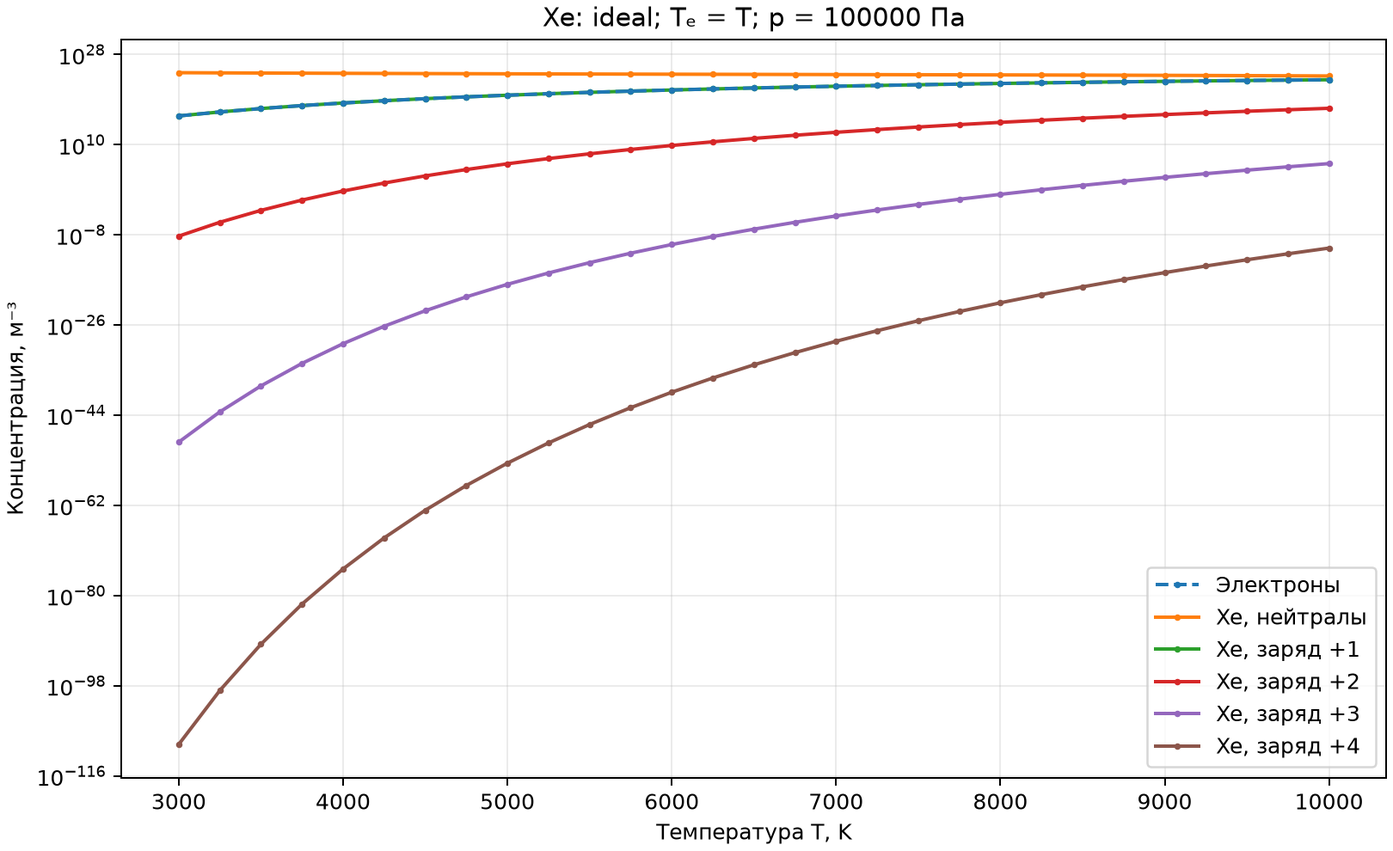
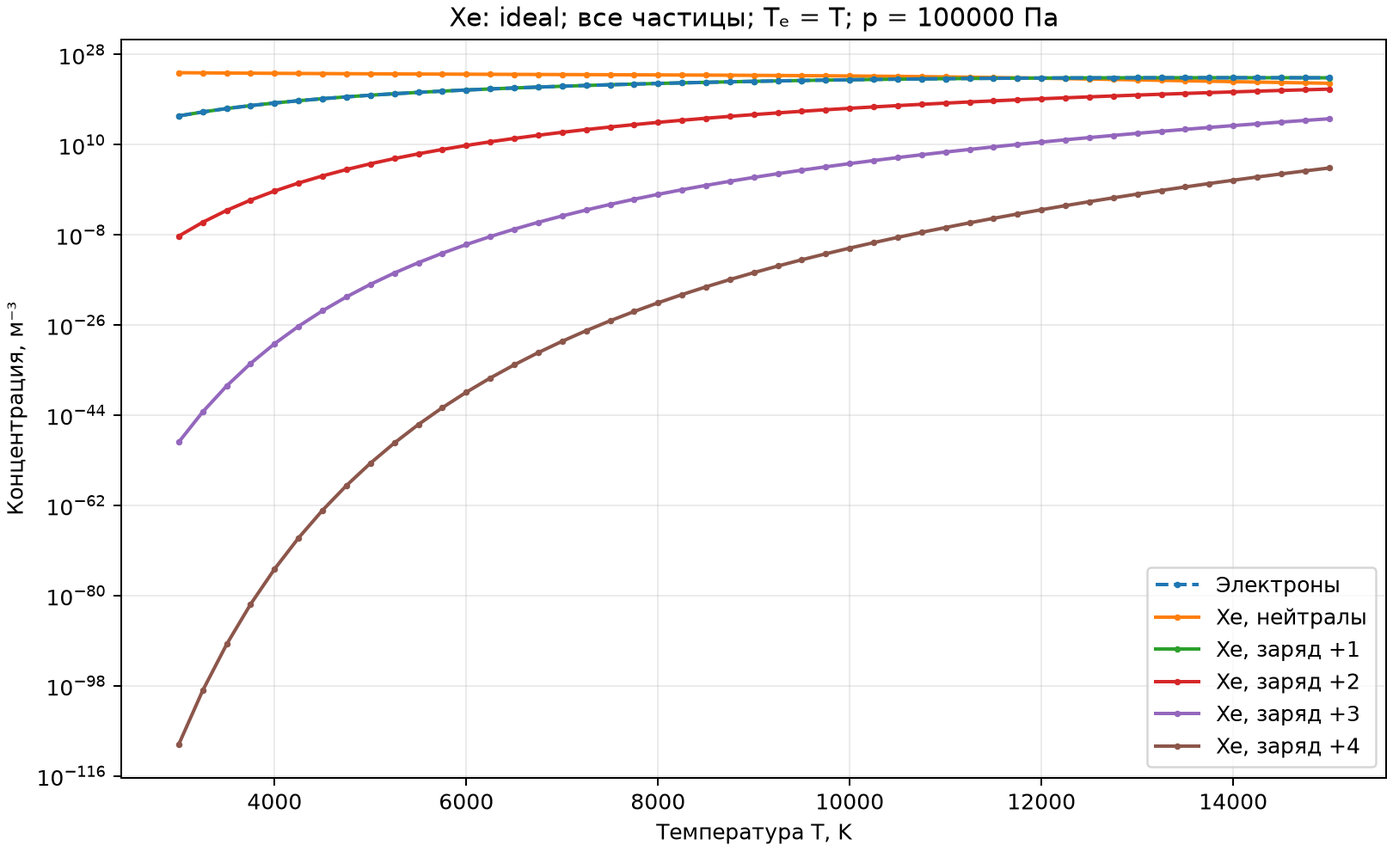
add plot levels result

diff --git a/src/plasma/output.py b/src/plasma/output.py
@@ -12,6 +12,16 @@ from .settings import RunSettings
 from .solver import Solution
 
 
+# Индексы столбцов density: электрон=0, нейтрал=1, заряд z -> z+1.
+_PLOT_GROUPS = {
+    1: ("group1_neutral_ion1_e", (1, 2, 0)),
+    2: ("group2_ion1_e_ion2", (2, 0, 3)),
+    3: ("group3_ion2_ion3", (3, 4)),
+    4: ("group4_ion3_ion4", (4, 5)),
+}
+_SPECIES_COLORS = ("tab:blue", "tab:orange", "tab:green", "tab:red", "tab:purple", "tab:brown")
+
+
 def solution_row(solution: Solution, settings: RunSettings) -> dict:
     row = {
         "element": solution.element, "model": solution.mode,
@@ -93,33 +103,41 @@ def plot_results(solutions: list[Solution], settings: RunSettings) -> list[Path]
             for i, solution in enumerate(selected):
                 if solution.converged and solution.state is not None:
                     density[i] = solution.state.density_star * settings.reference_density_m3
-            fig, ax = plt.subplots(figsize=(9, 5.5), constrained_layout=True)
             labels = ["Электроны", f"{element}, нейтралы"]
             labels += [f"{element}, заряд +{z}" for z in range(1, settings.max_charge + 1)]
-            for i, label in enumerate(labels):
-                ax.plot(
-                    temperature, density[:, i], marker=".", markersize=4, label=label,
-                    linestyle="--" if i == 0 else "-", linewidth=1.6,
-                    zorder=5 if i == 0 else 2,
-                )
-            ax.set_yscale("log")
-            ax.set_xlabel("Температура T, K")
-            ax.set_ylabel("Концентрация, м⁻³")
-            ax.set_title(f"{element}: {mode}; Tₑ = T; p = {settings.pressure_pa:g} Па")
-            ax.grid(True, which="both", alpha=0.25)
-            ax.legend()
-            failed = sum(not x.converged for x in selected)
-            if failed:
-                ax.text(0.02, 0.02, f"Несошедшиеся точки: {failed}; показаны пропусками",
-                        transform=ax.transAxes, fontsize=8)
-            if not np.isfinite(density).any():
-                ax.set_ylim(1, 10)
-                ax.text(0.5, 0.5, "Нет сошедшихся точек", ha="center", transform=ax.transAxes)
-            path = folder / f"{element}_{mode}.png"
-            fig.savefig(path, dpi=180)
-            paths.append(path)
-            if not settings.show_plots:
-                plt.close(fig)
+            specifications = [
+                (*_PLOT_GROUPS[g], f"группа {g}")
+                for g in settings.plot_groups if g <= settings.max_charge
+            ]
+            if settings.plot_all_species:
+                specifications.append(("", tuple(range(len(labels))), "все частицы"))
+            for suffix, indices, description in specifications:
+                fig, ax = plt.subplots(figsize=(9, 5.5), constrained_layout=True)
+                for i in indices:
+                    ax.plot(
+                        temperature, density[:, i], marker=".", markersize=4, label=labels[i],
+                        color=_SPECIES_COLORS[i], linestyle="--" if i == 0 else "-",
+                        linewidth=1.6, zorder=5 if i == 0 else 2,
+                    )
+                ax.set_yscale("log")
+                ax.set_xlabel("Температура T, K")
+                ax.set_ylabel("Концентрация, м⁻³")
+                ax.set_title(f"{element}: {mode}; {description}; Tₑ = T; p = {settings.pressure_pa:g} Па")
+                ax.grid(True, which="both", alpha=0.25)
+                ax.legend()
+                failed = sum(not x.converged for x in selected)
+                if failed:
+                    ax.text(0.02, 0.02, f"Несошедшиеся точки: {failed}; показаны пропусками",
+                            transform=ax.transAxes, fontsize=8)
+                if not np.isfinite(density[:, indices]).any():
+                    ax.set_ylim(1, 10)
+                    ax.text(0.5, 0.5, "Нет сошедшихся точек", ha="center", transform=ax.transAxes)
+                filename = f"{element}_{mode}" + (f"_{suffix}" if suffix else "") + ".png"
+                path = folder / filename
+                fig.savefig(path, dpi=180)
+                paths.append(path)
+                if not settings.show_plots:
+                    plt.close(fig)
     if settings.show_plots:
         plt.show()
         plt.close("all")
@@ -135,6 +153,7 @@ def write_metadata(settings: RunSettings, data: dict[str, AtomicData], failed: i
         "physical_model": "one-temperature; fixed finite bound-level tables; seminar frozen-correction Newton",
         "density_unit": "m^-3", "pressure_unit": "Pa", "energy_unit_after_loading": "eV",
         "failed_points": failed,
+        "skipped_plot_groups": [g for g in settings.plot_groups if g > settings.max_charge],
         "loaded_levels": {name: [len(x.energies_ev) for x in atom.levels] for name, atom in data.items()},
         "notes": [
             "Gamma=0 in ideal mode is a disabled correction, not a separate physical estimate.",

diff --git a/src/tests/test_application.py b/src/tests/test_application.py
@@ -8,6 +8,9 @@ import unittest
 from contextlib import redirect_stderr, redirect_stdout
 from dataclasses import replace
 from pathlib import Path
+from unittest.mock import patch
+
+import numpy as np
 
 from plasma.cli import main
 from plasma.output import solution_row
@@ -55,6 +58,43 @@ class ApplicationTests(unittest.TestCase):
         self.assertEqual(result.solutions, ())
         self.assertIsNone(result.csv_path)
         self.assertTrue(result.validation_path.is_file())
+
+    def test_grouped_plots_use_the_corresponding_csv_concentrations(self):
+        settings = replace(self.settings, elements=('Xe',), models=('ideal',), max_charge=4,
+                           temperature_stop_k=4000, plot_all_species=True)
+        write_input(settings.input_dir, max_charge=4)
+        figures = {}
+
+        def capture(figure, path, **kwargs):
+            ax = figure.axes[0]
+            self.assertEqual(ax.get_yscale(), 'log')
+            figures[Path(path).name] = {
+                line.get_label(): (line.get_xdata().copy(), line.get_ydata().copy(), line.get_color())
+                for line in ax.lines
+            }
+
+        with patch('matplotlib.figure.Figure.savefig', autospec=True, side_effect=capture):
+            result = run(settings, quiet=True)
+        with result.csv_path.open(encoding='utf-8-sig') as stream:
+            rows = list(csv.DictReader(stream))
+        expected = {
+            'Xe_ideal_group1_neutral_ion1_e.png': ('Xe, нейтралы', 'Xe, заряд +1', 'Электроны'),
+            'Xe_ideal_group2_ion1_e_ion2.png': ('Xe, заряд +1', 'Электроны', 'Xe, заряд +2'),
+            'Xe_ideal_group3_ion2_ion3.png': ('Xe, заряд +2', 'Xe, заряд +3'),
+            'Xe_ideal_group4_ion3_ion4.png': ('Xe, заряд +3', 'Xe, заряд +4'),
+            'Xe_ideal.png': ('Электроны', 'Xe, нейтралы', 'Xe, заряд +1', 'Xe, заряд +2',
+                             'Xe, заряд +3', 'Xe, заряд +4'),
+        }
+        self.assertEqual(set(figures), set(expected))
+        columns = {'Электроны': 'n_e_m3', 'Xe, нейтралы': 'n_0_m3',
+                   **{f'Xe, заряд +{z}': f'n_{z}_m3' for z in range(1, 5)}}
+        colors = {}
+        for filename, labels in expected.items():
+            self.assertEqual(tuple(figures[filename]), labels)
+            for label, (x, y, color) in figures[filename].items():
+                np.testing.assert_allclose(x, [float(r['T_K']) for r in rows])
+                np.testing.assert_allclose(y, [float(r[columns[label]]) for r in rows], rtol=1e-12)
+                self.assertEqual(color, colors.setdefault(label, color))
 
     def test_missing_csv_readable_cli_failure(self):
         stream = io.StringIO()

diff --git a/src/plasma/cli.py b/src/plasma/cli.py
@@ -21,6 +21,10 @@ def main(settings: RunSettings | None = None, argv: list[str] | None = None) -> 
     parser.add_argument("--element", choices=("Xe", "Cs"), help="Рассчитать только один элемент.")
     parser.add_argument("--model", choices=("ideal", "nonideal"), help="Рассчитать только один режим.")
     parser.add_argument("--max-charge", type=int)
+    parser.add_argument("--plot-groups", type=int, nargs="+", choices=(1, 2, 3, 4),
+                        help="Группы графиков, например --plot-groups 1 3 4.")
+    parser.add_argument("--plot-all", action="store_true",
+                        help="Дополнительно сохранить общий график всех частиц.")
     parser.add_argument("--quiet", action="store_true", help="Не печатать промежуточные результаты и таблицу.")
     args = parser.parse_args(argv)
     updates = {}
@@ -32,6 +36,10 @@ def main(settings: RunSettings | None = None, argv: list[str] | None = None) -> 
         updates["elements"] = (args.element,)
     if args.model:
         updates["models"] = (args.model,)
+    if args.plot_groups is not None:
+        updates["plot_groups"] = tuple(args.plot_groups)
+    if args.plot_all:
+        updates["plot_all_species"] = True
     settings = replace(settings, **updates)
     try:
         summary = run(settings, validate_only=args.validate_only, quiet=args.quiet)

diff --git a/src/config.py b/src/config.py
@@ -13,9 +13,9 @@ SETTINGS = RunSettings(
     models=("ideal", "nonideal"),
     pressure_pa=100_000.0,       # 1 бар; ввод всегда в Па.
     temperature_start_k=3000.0,
-    temperature_stop_k=10000.0,
+    temperature_stop_k=15000.0,
     temperature_step_k=250.0,
-    max_charge=4,               # Нейтрал и ионы +1, +2, +3, +4 на всех графиках.
+    max_charge=4,               # Совместный расчёт нейтрала и ионов +1, +2, +3, +4.
     reference_density_m3=1e24,  # 10^18 см^-3 — масштаб из семинарского листочка.
     default_energy_unit="eV", # Только для CSV, в заголовке которых нет единицы.
     bound_levels_only=True,    # Фиксированный набор уровней ниже исходного порога.
@@ -27,4 +27,6 @@ SETTINGS = RunSettings(
     continuation_depth=4,       # Дополнительные промежуточные температуры при сбое.
     minimum_temperature_step_k=10.0,
     show_plots=False,           # PNG сохраняются в любом случае.
+    plot_groups=(1, 2, 3, 4),   # 1: 0,+1,e; 2: +1,e,+2; 3: +2,+3; 4: +3,+4.
+    plot_all_species=True,     # Дополнительно сохранять общий график всех частиц.
 )

diff --git a/src/plasma/settings.py b/src/plasma/settings.py
@@ -28,6 +28,8 @@ class RunSettings:
     continuation_depth: int = 4
     minimum_temperature_step_k: float = 10.0
     show_plots: bool = False
+    plot_groups: tuple[int, ...] = (1, 2, 3, 4)
+    plot_all_species: bool = False
 
     def validate(self) -> None:
         for name in (
@@ -58,6 +60,13 @@ class RunSettings:
                 raise ValueError(f"Некорректное значение {name}.")
         if self.relative_tolerance >= 1 or self.gamma_tolerance >= 1:
             raise ValueError("Допуски должны быть меньше единицы.")
+        if any(not isinstance(g, int) or isinstance(g, bool) or g not in (1, 2, 3, 4)
+               for g in self.plot_groups):
+            raise ValueError("plot_groups должен содержать номера групп от 1 до 4.")
+        if len(set(self.plot_groups)) != len(self.plot_groups):
+            raise ValueError("plot_groups содержит повторения.")
+        if not self.plot_all_species and not any(g <= self.max_charge for g in self.plot_groups):
+            raise ValueError("Нет доступных групп графиков: увеличь max_charge или выбери другую plot_groups.")
 
     def temperatures(self) -> np.ndarray:
         self.validate()

diff --git a/src/plasma/runner.py b/src/plasma/runner.py
@@ -107,6 +107,9 @@ def run(settings: RunSettings, validate_only: bool = False, quiet: bool = False)
     atoms, validation = validate_inputs(settings)
     if not quiet:
         print("Модель: Tₑ = T; давление в Па; выходные концентрации в м⁻³.")
+        skipped_groups = [g for g in settings.plot_groups if g > settings.max_charge]
+        if skipped_groups:
+            print(f"Группы графиков {skipped_groups} пропущены: для них нужен больший max_charge.")
         for name, atom in atoms.items():
             print(f"{name}: уровней по зарядам: {[len(x.energies_ev) for x in atom.levels]}")
             for report in atom.reports:

diff --git a/src/plasma/__init__.py b/src/plasma/__init__.py
@@ -1,3 +1,3 @@
 """Расчёт стационарного однотемпературного состава Xe и Cs."""
 
-__version__ = "0.1.2"
+__version__ = "0.1.3"

diff --git a/src/README.md b/src/README.md
@@ -39,7 +39,9 @@ uv run main.py --max-charge 4 --output-dir results_z4
 | Давление | 100000 Па = 1 бар |
 | Температура | 3000–10000 K |
 | Шаг температуры | 250 K |
-| Максимальный заряд | +4; на графиках нейтрал, ионы +1, +2, +3, +4 и электроны |
+| Максимальный заряд | +4; все состояния рассчитываются совместно |
+| Группы графиков | 1, 2, 3, 4; отдельный PNG для каждой группы |
+| Общий график всех частиц | выключен; включается через plot_all_species=True |
 | Точность уравнений | 1e-8 |
 | Точность Γ | 1e-12 |
 | Предел итераций | 150 |
@@ -114,13 +116,31 @@ Alpha — поправка давления. Коэффициент уменьш
 ## Результаты
 
 - `results/concentrations.csv`: все запрошенные точки, входные параметры, концентрации электронов и тяжёлых частиц, Γ, α, максимальная ΔI, итерации, ошибки и статус.
-- `results/plots/Xe_ideal.png` и аналогичные PNG: концентрации по температуре, логарифмическая ось концентраций. Несошедшиеся точки показаны пропусками.
+- `results/plots/*_group*.png`: отдельные группы концентраций по температуре, логарифмическая ось концентраций. Несошедшиеся точки показаны пропусками.
 - `results/data_validation.json`: число прочитанных и исключённых строк каждого файла, причины, предупреждения.
 - `results/run_metadata.json`: настройки, единицы, количество уровней, ограничения модели.
 
 Выходные файлы перезаписываются при новом запуске в ту же папку. Для сохранения разных опытов укажи разные `output_dir`.
 
-Обычный запуск `uv run main.py` использует `max_charge=4` из `config.py`: концентрации всех четырёх зарядов вычисляются совместно и выводятся на каждый график и в CSV. Для упрощённого состава можно запустить `uv run main.py --max-charge 1`. Ось концентраций логарифмическая, поэтому видны также очень малые концентрации старших ионов при низкой температуре.
+Обычный запуск `uv run main.py` использует `max_charge=4` из `config.py`. Сначала совместно вычисляются концентрации всех частиц; затем строятся четыре группы графиков. Выбор группы меняет только изображение, а CSV сохраняет все рассчитанные концентрации.
+
+| Группа | Кривые | Пример имени PNG |
+|---|---|---|
+| 1 | Нейтралы, ионы +1, электроны | Xe_ideal_group1_neutral_ion1_e.png |
+| 2 | Ионы +1, электроны, ионы +2 | Xe_ideal_group2_ion1_e_ion2.png |
+| 3 | Ионы +2, ионы +3 | Xe_ideal_group3_ion2_ion3.png |
+| 4 | Ионы +3, ионы +4 | Xe_ideal_group4_ion3_ion4.png |
+
+При двух элементах и двух режимах получается 16 PNG. Каждая группа имеет свой масштаб вертикальной оси; цвета одной и той же частицы совпадают между графиками.
+
+В `config.py` можно выбрать `plot_groups=(1, 3)` или включить дополнительный общий график через `plot_all_species=True`. Общие графики сохраняются как `Xe_ideal.png` и аналогичные файлы. Те же настройки доступны из командной строки:
+
+```bash
+uv run main.py --plot-groups 1 3
+uv run main.py --plot-groups 1 2 3 4 --plot-all
+```
+
+Для упрощённого состава можно запустить `uv run main.py --max-charge 1`. Группы, требующие отсутствующего заряда, целиком пропускаются с сообщением и отметкой `skipped_plot_groups` в метаданных. Если не доступна ни одна выбранная группа и выключен общий график, программа сообщает об ошибке настроек. Ось концентраций логарифмическая, поэтому видны также очень малые концентрации старших ионов при низкой температуре.
 
 Коды завершения: 0 — успешно, 1 — есть несошедшиеся точки, 2 — ошибка данных или настроек.
 
@@ -130,11 +150,11 @@ Alpha — поправка давления. Коэффициент уменьш
 uv run python -m unittest discover -s tests -v
 ```
 
-Тесты проверяют NIST-подобный формат, единицы, дробные J и маркеры, согласованность спектра и заряда, номера строк в отчёте, матрицу по конечным разностям, аналитический двухсостоянийный случай, идеальный многозарядный случай по независимому скалярному решению, уравнение Γ и полный цикл CSV/PNG. `test_supplied_nist.py` дополнительно проверяет все десять приложенных таблиц уровней и реальные пороги ионизации.
+Тесты проверяют NIST-подобный формат, единицы, дробные J и маркеры, согласованность спектра и заряда, номера строк в отчёте, матрицу по конечным разностям, аналитический двухсостоянийный случай, идеальный многозарядный случай по независимому скалярному решению, уравнение Γ и полный цикл CSV/PNG. Отдельная проверка сопоставляет каждую кривую всех четырёх групп со значениями соответствующих столбцов CSV и проверяет постоянство цветов. `test_supplied_nist.py` дополнительно проверяет все десять приложенных таблиц уровней и реальные пороги ионизации.
 
 Основные численные тесты используют синтетические таблицы и не являются физическими данными Xe/Cs. Тесты `test_supplied_nist.py` относятся к включённому набору NIST CSV: при его замене контрольные количества уровней нужно пересмотреть. Совпадение результатов модели с независимыми физическими контрольными данными — отдельный следующий этап.
 
-На включённых CSV выполнен запуск через `uv`: прошли 39 тестов, а также расчёты при p=100000 Па, T=3000–10000 K с шагом 250 K, отдельно для max_charge=1 и max_charge=4. В каждом расчёте сошлись все 116 точек (два элемента × два режима × 29 температур), ошибки уравнений ниже 1e-8, ошибка уравнения Γ ниже 1e-12.
+На включённых CSV выполнен запуск через `uv`: прошли 40 тестов. При p=100000 Па, T=3000–10000 K с шагом 250 K и max_charge=4 сошлись все 116 точек (два элемента × два режима × 29 температур) и созданы 16 PNG четырёх групп. Ошибки уравнений ниже 1e-8, ошибка уравнения Γ ниже 1e-12. Ранее проверенный упрощённый состав max_charge=1 также сходился во всех 116 точках.
 
 ## Файлы программы
 
